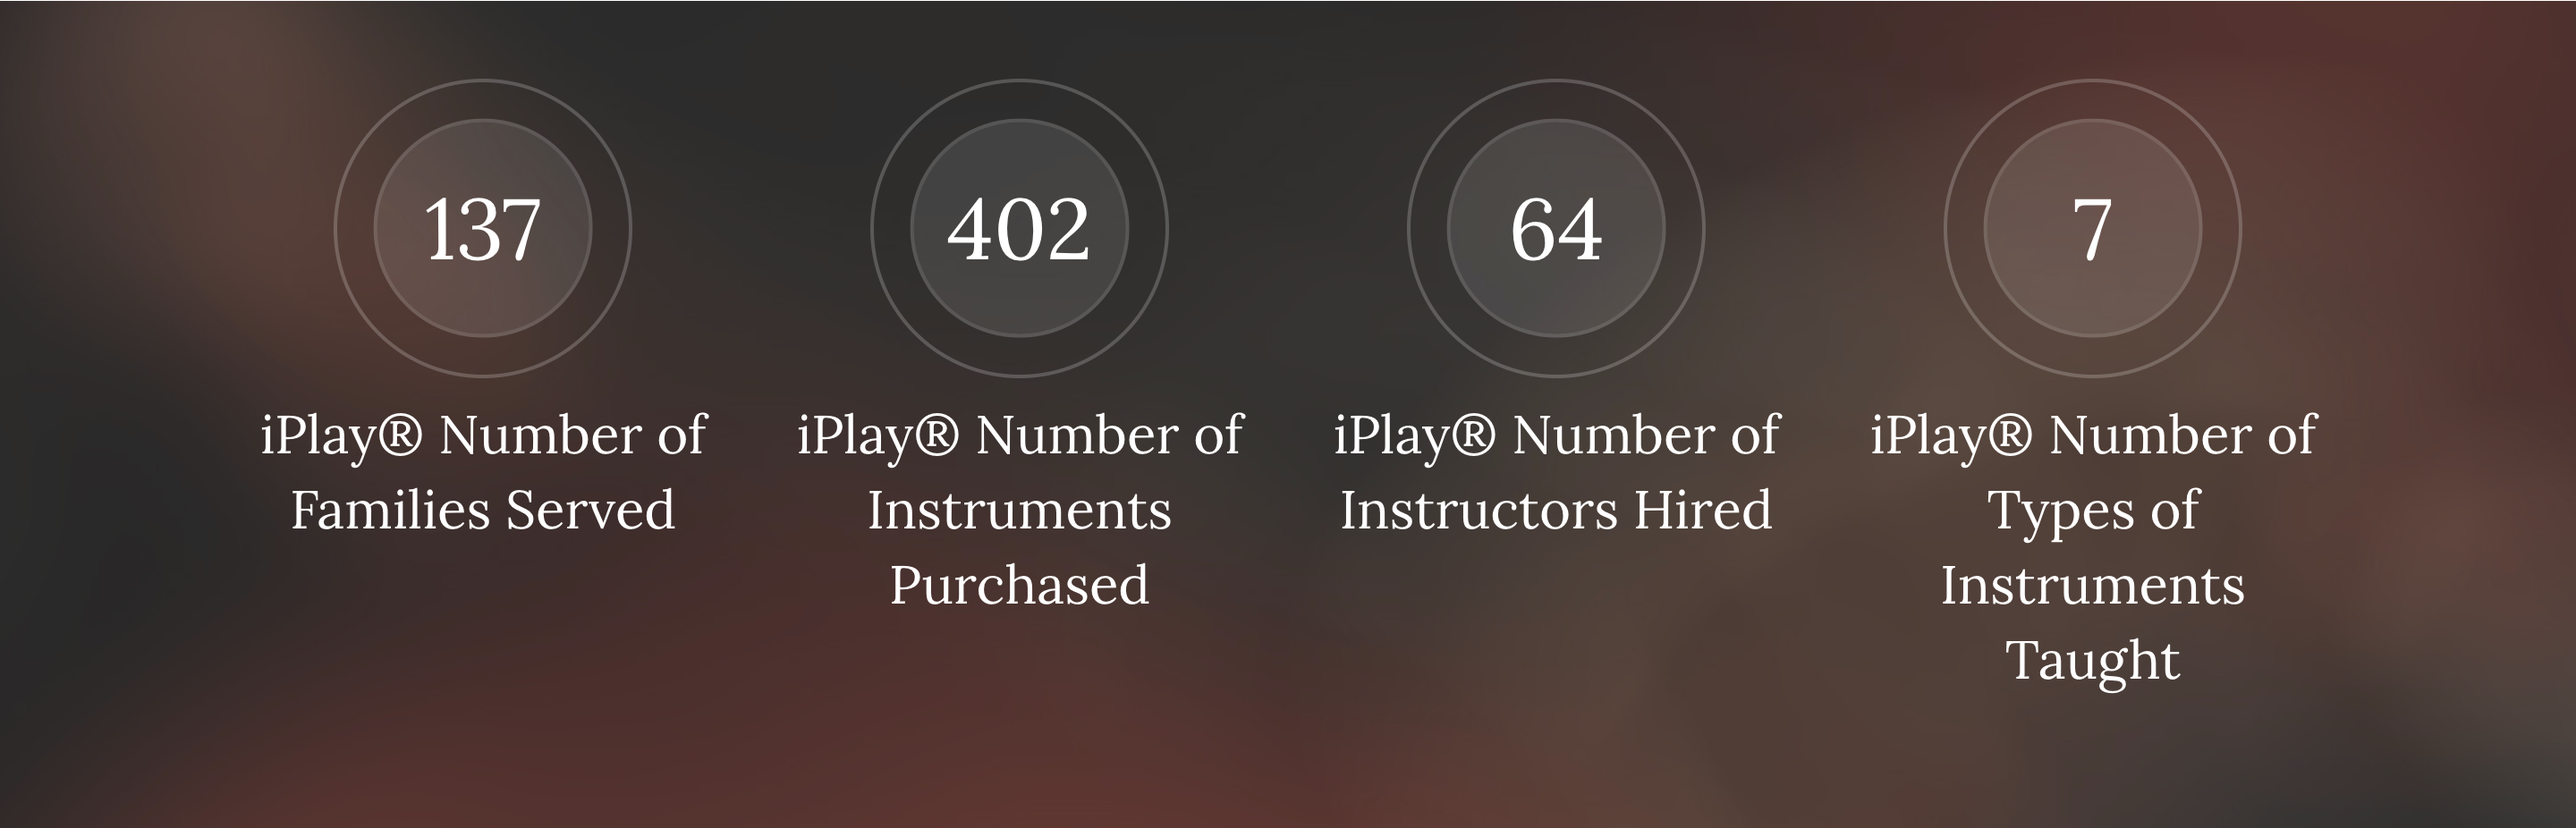
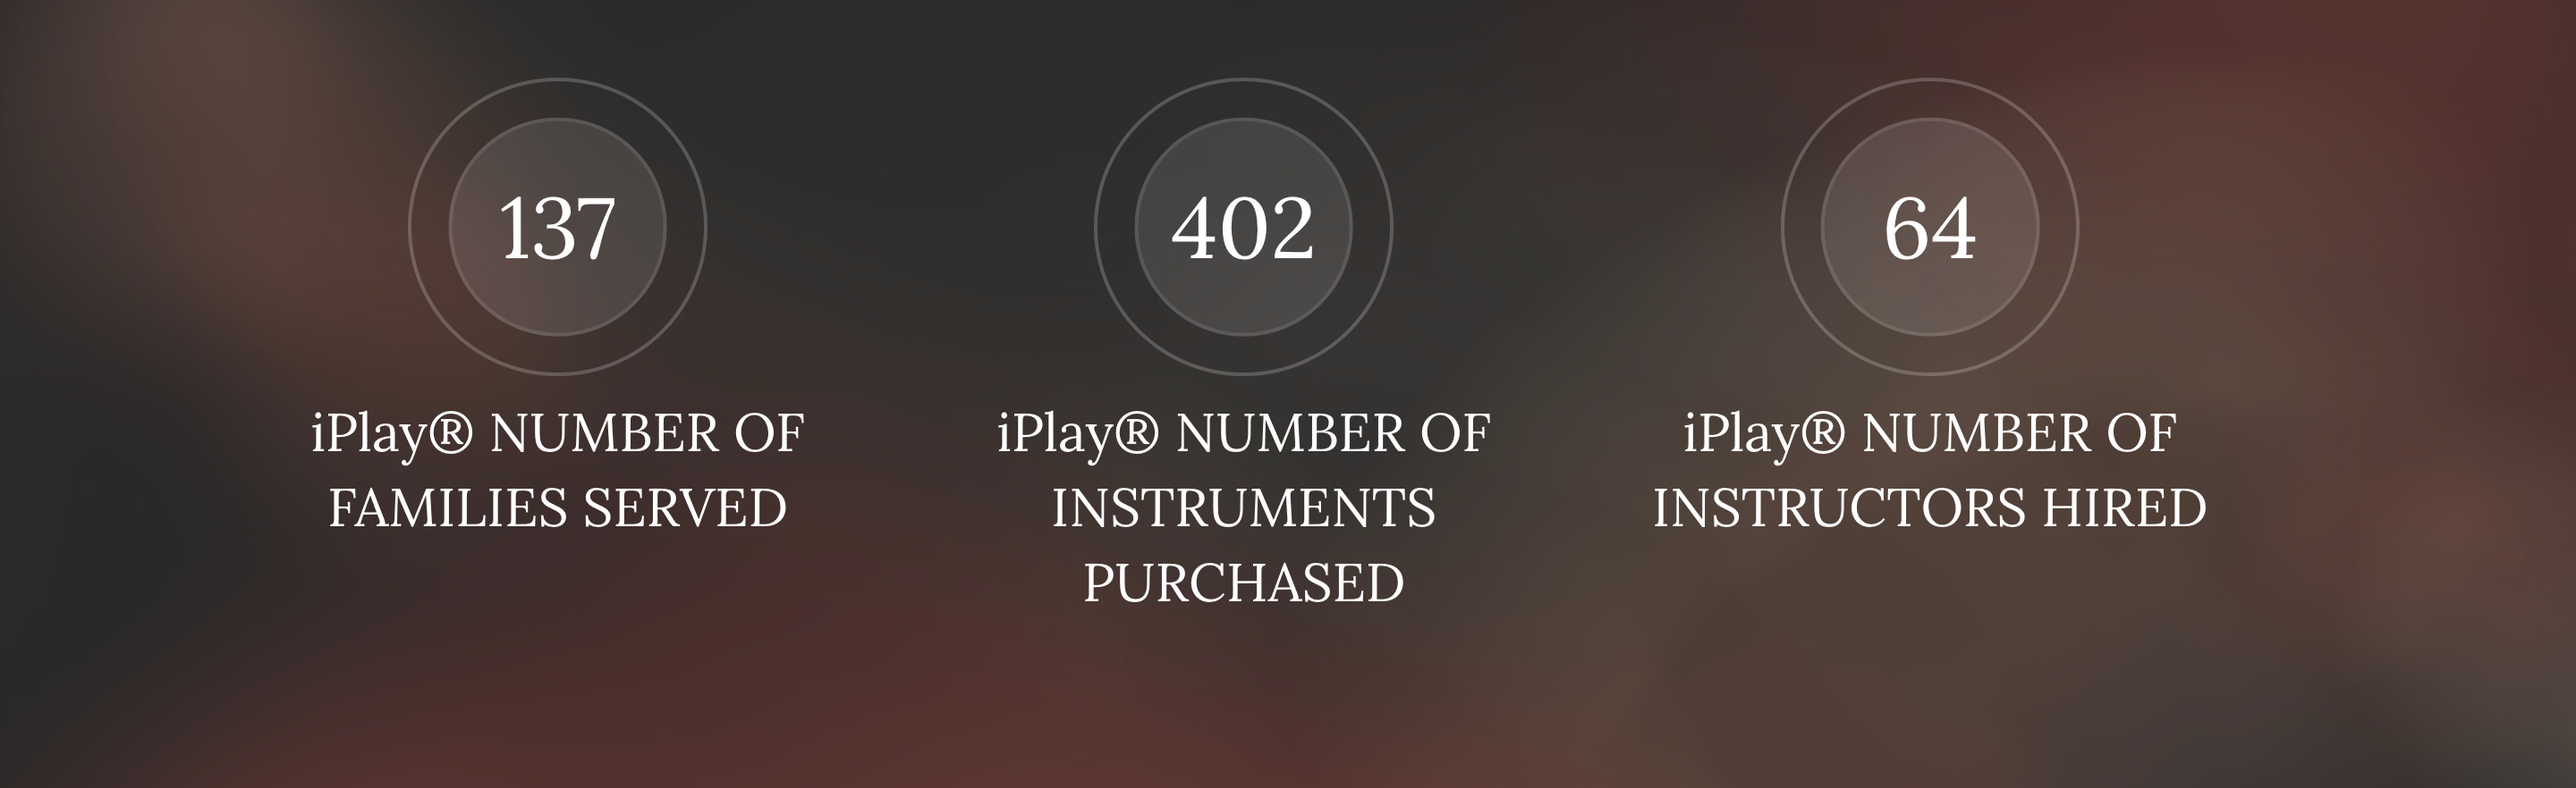
removed the "Number of Instruments Taught" from stats

diff --git a/pages/our_causes/education/iplay/index.html b/pages/our_causes/education/iplay/index.html
@@ -205,6 +205,56 @@
 							<img src="images/stats.png" alt="Description of image" width="100%">
 						</section>
 
+						<!-- Code for stats animation. Uncomment to edit. Take a screenshot and call it stats.png. 
+						<div class="vc_row wpb_row vc_row-fluid vc_row-no-padding">
+							<div class="wpb_column vc_column_container vc_col-sm-12">
+								<div class="vc_column-inner ">
+									<div class="wpb_wrapper">
+										<div class="sc_parallax" data-parallax-speed="0" data-parallax-x-pos="50%" data-parallax-y-pos="50%">
+											<div class="sc_parallax_content" style="background-image:url(images/bg2-Parallax.jpg); background-position:50% 50%;">
+												<div class="sc_content content_wrap">
+													<div id="sc_skills_diagram_146952702" class="sc_skills sc_skills_counter margin_bottom_large" style="margin-top: 1.5rem;" data-type="counter" data-caption="Skills">
+														<div class="columns_wrap sc_skills_columns sc_skills_columns_4">
+															<div class="sc_skills_column column-1_4">
+																<div class="sc_skills_item sc_skills_style_2 odd first">
+																	<div class="sc_skills_icon none"></div>
+																	<div class="sc_skills_count"></div>
+																	<div class="sc_skills_total" data-start="0" data-stop="137" data-step="2" data-max="137" data-speed="17" data-duration="1964" data-ed="">0</div>
+																	<div class="sc_skills_info">
+																		<div class="sc_skills_label">iPlay® NUMBER OF FAMILIES SERVED </div>
+																	</div>
+																</div>
+															</div><div class="sc_skills_column column-1_4">
+																<div class="sc_skills_item sc_skills_style_2 even">
+																	<div class="sc_skills_icon none"></div>
+																	<div class="sc_skills_count"></div>
+																	<div class="sc_skills_total" data-start="0" data-stop="402" data-step="2" data-max="402" data-speed="36" data-duration="252" data-ed="">0</div>
+																	<div class="sc_skills_info">
+																		<div class="sc_skills_label">iPlay® NUMBER OF INSTRUMENTS PURCHASED </div>
+																	</div>
+																</div>
+															</div><div class="sc_skills_column column-1_4">
+																<div class="sc_skills_item sc_skills_style_2 odd">
+																	<div class="sc_skills_icon none"></div>
+																	<div class="sc_skills_count"></div>
+																	<div class="sc_skills_total" data-start="0" data-stop="64" data-step="2" data-max="64" data-speed="17" data-duration="272" data-ed="">0</div>
+																	<div class="sc_skills_info">
+																		<div class="sc_skills_label">iPlay® NUMBER OF INSTRUCTORS HIRED </div>
+																	</div>
+																</div>
+															</div>
+														</div>
+													</div>
+													<div class="vc_empty_space" style="height: 1.7em"><span class="vc_empty_space_inner"></span></div>
+												</div>
+											</div>
+										</div>
+									</div>
+								</div>
+							</div>
+						</div>
+						-->
+
 						<section>
 							<h1 class="sc_section_title sc_item_title">Technology Utilization</h1>
 							<p>

diff --git a/pages/our_causes/education/iplay/css/style.css b/pages/our_causes/education/iplay/css/style.css
@@ -78,6 +78,14 @@ ul, ol {
     margin: 0 auto;
 }
 
+/*stats animation*/
+.sc_skills_columns {
+    display: flex;
+    justify-content: center;
+    width:225%;
+  }
+  
+
 /* Performance Videos */
 .video-grid {
     display: flex;
